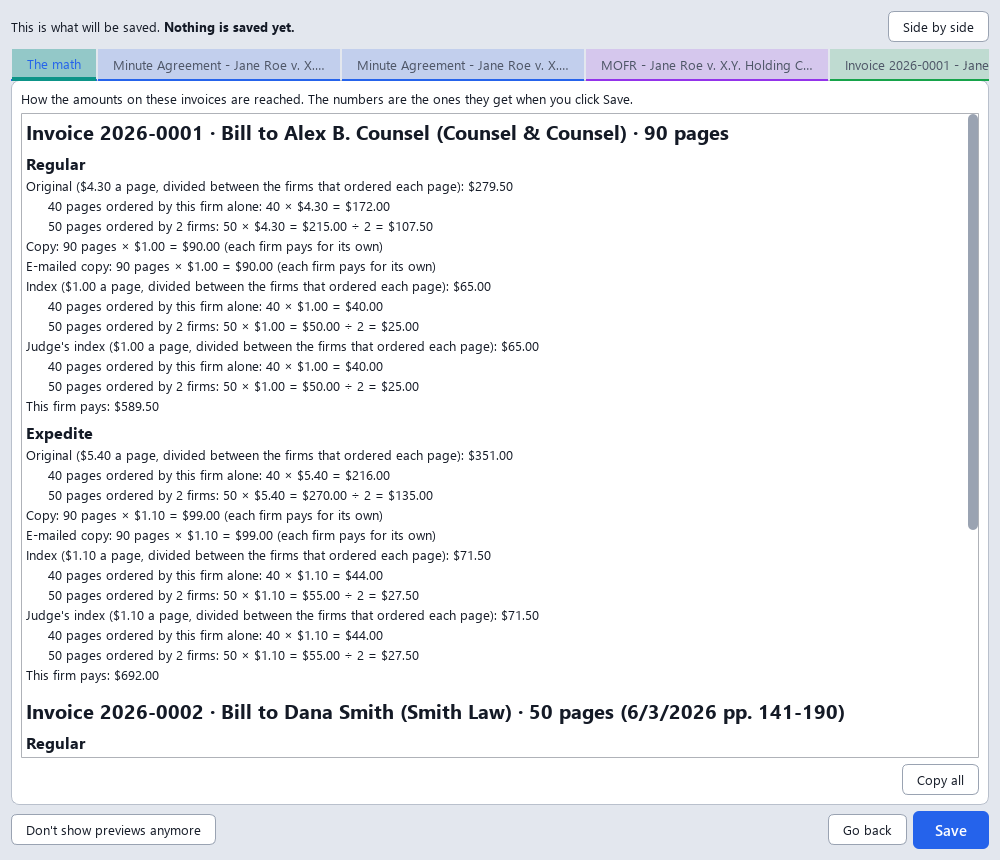
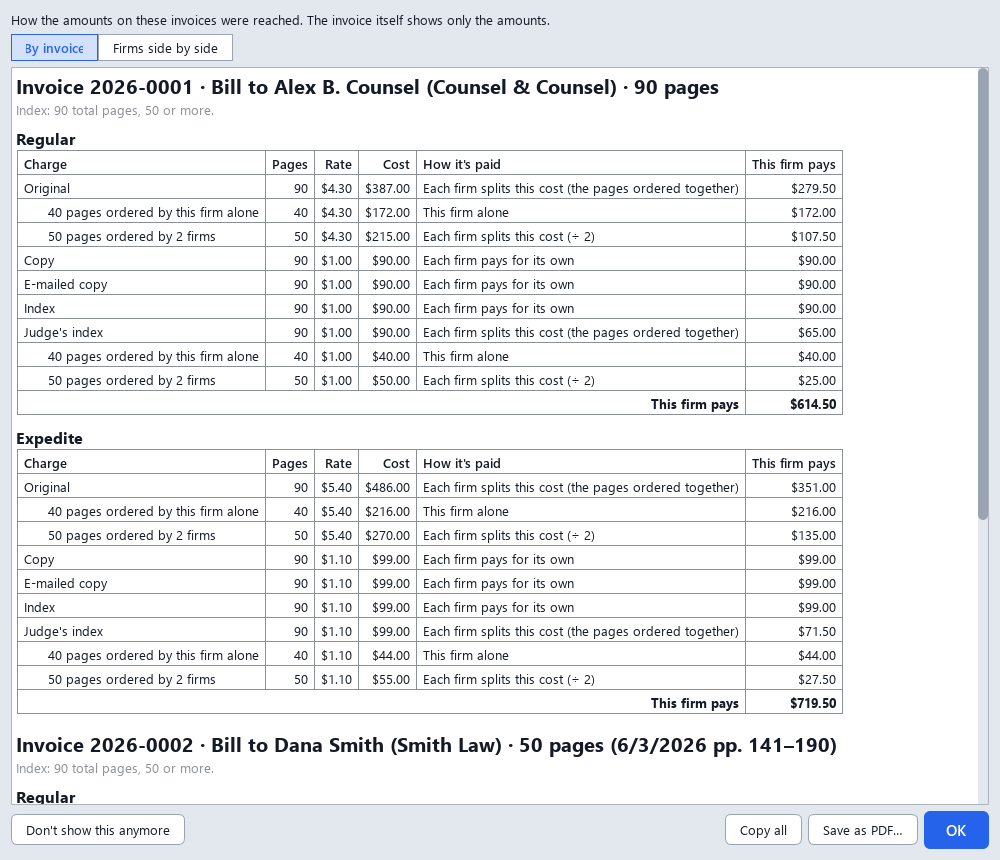
Website for 2.5.0: the index on the whole transcript, Peripherals..., the math in tables, the counts in the Outputs box
New pictures (made-up data): the main window with the renamed card and the counts, the batch, and the math
in tables. The text: the speeds in the Invoice panel, Minute agreement form details, each firm's own index
and the judge's split, Peripherals... for this job only, Copy all as text.

Claude-Session: https://claude.ai/code/session_01M8DtR5FeDUj772wgLniEsn

Changed region(s): [[0.0, 0.0, 0.992, 0.9977], [0.651, 0.1814, 0.837, 0.4837], [0.093, 0.9372, 0.217, 0.9977]]

diff --git a/docs/index.html b/docs/index.html
@@ -64,7 +64,7 @@
 </header>
 
 <div class="wrap">
-  <img class="shot" src="app.png" alt="The app with a case filled in from a pasted e-mail: the case details, the invoice's speeds and the minute agreement's one speed under Order, and the Outputs box">
+  <img class="shot" src="app.png" alt="The app with a case filled in from a pasted e-mail: the case details, the Minute agreement form details card, and the Outputs box, each output saying how many files Generate will make">
 </div>
 
 <section>
@@ -80,8 +80,8 @@
     <ol class="steps">
       <li><b>Drop it in</b>A PDF (transcript, invoice), a photo, or paste the e-mail text or a screenshot with Ctrl+V.</li>
       <li><b>Check the details</b>Every field shows where it came from. Guesses are highlighted, and a list offers other candidates. No case name in the document? An earlier job with the same index number in your records suggests one, highlighted for you to check.</li>
-      <li><b>Tick who ordered, and the speeds</b>Tick the firms who ordered: a firm is one row, naming all its attorneys on the title page, and gets one invoice and one agreement (No. of copies follows). Two rows that might be one firm, "Smith Law" and "Smith Law Group"? You're asked, <b>Same firm</b> or <b>Not the same</b>, and the app remembers your answer (untick <b>Remember</b> to answer for now only; Settings &rarr; Invoice lists your answers, so you can forget one). Under Order, tick the speeds you offer, once: the invoice lists them all, each at its own price, and the agreement form names one speed at one rate, Expedited when you offer it, unless you pick another. An e-mail asking for another speed? It's pointed out, and Generate asks you which. <b>Who pays what</b>, under the attorneys, shows each firm's invoice in short as you tick. Rates and the estimated delivery date follow your rate sheet.</li>
-      <li><b>Generate</b>Tick what to make in the Outputs box: minute agreement, invoice, MOFR, run sheet, each with its own options. You see every file, and the math, before anything is saved; then the PDFs are saved, one per attorney you tick, and the run sheet gets the day's takes. Ctrl+Enter does it from the keyboard.</li>
+      <li><b>Tick who ordered, and the speeds</b>Tick the firms who ordered: a firm is one row, naming all its attorneys on the title page, and gets one invoice and one agreement (No. of copies follows). Two rows that might be one firm, "Smith Law" and "Smith Law Group"? You're asked, <b>Same firm</b> or <b>Not the same</b>, and the app remembers your answer (untick <b>Remember</b> to answer for now only; Settings &rarr; Invoice lists your answers, so you can forget one). In the Invoice panel, tick the speeds you offer, once: the invoice lists them all, each at its own price, and the agreement form names one speed at one rate, Expedited when you offer it, unless you pick another under <b>Minute agreement form details</b>. An e-mail asking for another speed? It's pointed out, and Generate asks you which. <b>Who pays what</b>, under the attorneys, shows each firm's invoice in short as you tick. Rates and the estimated delivery date follow your rate sheet.</li>
+      <li><b>Generate</b>Tick what to make in the Outputs box: minute agreement, invoice, MOFR, run sheet, each with its own options, and each saying how many files it will make ("Will generate 2 minute agreement forms") as you tick attorneys. You see every file, and the math, before anything is saved; then the PDFs are saved, one per attorney you tick, and the run sheet gets the day's takes. Ctrl+Enter does it from the keyboard.</li>
     </ol>
   </div>
 </section>
@@ -92,7 +92,7 @@
       <h2>A hundred orders? Drop the whole folder.</h2>
       <p>Batch mode reads any number of documents and sorts them into one job per case and date. A transcript and its invoice make one form, not two. Two days of the same case make two jobs, but <b>Generate all</b> gives each firm <b>one invoice</b> and one minute agreement for all the days it ordered, and the trial one MOFR (Settings &rarr; Options switches back to forms for each day). Tick the jobs you want and press <b>Generate all</b>: the preview shows every file and the math first, and nothing is saved until you say so. A ⚠ next to a job means something to check; hover over it to see what.</p>
     </div>
-    <img class="shot" src="batch.png" alt="Batch mode: five jobs on the left, a trial day two reporters wrote, its speeds offered and page count (Transcript pages 101 to 130, excluding the 4 word-index pages), your 18 of its 30 pages billed, and the Outputs box with Run sheet ticked">
+    <img class="shot" src="batch.png" alt="Batch mode: five jobs on the left, a trial day two reporters wrote, and the Outputs box: what Generate and Generate all will make, the speeds offered, You wrote 18 of 30 total pages, the index and why, and Run sheet ticked">
   </div>
 </section>
 
@@ -111,7 +111,7 @@
     <img class="shot" src="invoice.png" alt="One invoice for two days of a case, listing the Regular and Expedite amounts">
     <div>
       <h2>Invoices from your transcripts</h2>
-      <p>Drop a transcript PDF and tick <b>Invoice</b>. The page count leaves out the word index printed after the transcript, and the line under it says so: "Transcript pages 378&ndash;460 &middot; excludes the 13 word-index pages after them". It is counted four ways (up to the index, by the line numbers, by the printed page numbers, and the index found from the end); if they disagree, or the index would be more than a quarter of the PDF, the field turns amber and tells you why. The page count and your rate sheet price the original, each party's copy and e-mailed copy, and an index for long transcripts, split between the ordering parties. The speeds you tick under Order (Regular and Expedited to start with) are the ones the invoice offers, each with its turnaround and amount, and with how to pay you. The agreement form names one of them, at one rate per page: Expedited when you offer it, otherwise the slowest. Settings &rarr; Invoice changes that rule, and the <b>Speed</b> dropdown under Order changes it for one job. No transcript, just a caption page? Type the pages in <b>Est. number of pages</b> and the invoice bills them. Want the page count, the pages of each day and the charges spelled out for this job? Tick <b>Show granular detail</b>, and choose what it shows. <b>Extras…</b> drops the e-mailed copy or adds an index for one job. The notes on the invoice are yours to write, too: place them where you like and have them show only when they apply ("delivered once every party has paid" only when several parties ordered).</p>
+      <p>Drop a transcript PDF and tick <b>Invoice</b>. The page count leaves out the word index printed after the transcript, and the line under it says so: "Transcript pages 378&ndash;460 &middot; excludes the 13 word-index pages after them". It is counted four ways (up to the index, by the line numbers, by the printed page numbers, and the index found from the end); if they disagree, or the index would be more than a quarter of the PDF, the field turns amber and tells you why. The page count and your rate sheet price the original, each party's copy and e-mailed copy, and for long transcripts an index for each party, plus one for the judge that the parties split. Whether there is an index is decided on the whole transcript, every reporter's pages (50 pages or more to start with): your 45 pages of an 83-page transcript get one, charged on your 45. The speeds you tick in the Invoice panel (Regular and Expedited to start with) are the ones the invoice offers, each with its turnaround and amount, and with how to pay you. The agreement form names one of them, at one rate per page: Expedited when you offer it, otherwise the slowest. Settings &rarr; Invoice changes that rule, and the <b>Speed</b> dropdown under <b>Minute agreement form details</b> changes it for one job. No transcript, just a caption page? Type the pages in <b>Est. number of pages</b> and the invoice bills them. Want the page count, the pages of each day and the charges spelled out for this job? Tick <b>Show granular detail</b>, and choose what it shows. <b>Peripherals…</b> drops the e-mailed copy, or says yes or no to the index, for this job only, and the panel says why there is an index or not: "83 total pages, 50 or more". The notes on the invoice are yours to write, too: place them where you like and have them show only when they apply ("delivered once every party has paid" only when several parties ordered).</p>
       <p>Shared the trial with another reporter? The invoice bills only <b>your</b> pages, the ones with your initials at the foot: 65 of a 150-page transcript, say. <b>Whose pages…</b> lets you tick <b>My pages</b>, another reporter's pages, or <b>The whole transcript</b>, and the app asks when it can't tell. Each other reporter you tick gets invoices for their own pages, in their name, with their address and payment details (Settings &rarr; Run sheet &rarr; Invoices for, or <b>Details…</b>), numbered apart from yours (DS-2026-0001), with file names that say whose they are. Sample shown uses made-up names.</p>
     </div>
   </div>
@@ -121,7 +121,7 @@
   <div class="wrap two">
     <div>
       <h2>Excerpts: the whole case on one table</h2>
-      <p>One firm ordered the whole trial, another part of day 1, a third part of that and a stretch of day 2? <b>Excerpts…</b> (next to Parties) lists every day of the case on that invoice in one table. Each row is a run of pages, typed in the transcript's own page numbers (141-170), and the rows around it make room. Tick the firms that ordered each run. <b>Split run</b> cuts a run in two, and <b>Remove run</b> (or the Delete key, or a right-click) gives its pages to the run next to it; <b>Remove this day's excerpts</b> and <b>Remove all excerpts</b> go back to whole days. Each run shows its date and weekday, and each set of firms ordering together has its own colour. As you type, it shows what each run costs each firm at every speed you offer (<b>Prices for:</b> hides a speed), what each group of firms ordering together pays, and each firm's invoice. Pages ordered together share the original and the index, and every firm pays for its own copy. A run nobody ticks is billed to nobody. The window stays open beside the app and follows what you change there. Sample shown uses made-up names.</p>
+      <p>One firm ordered the whole trial, another part of day 1, a third part of that and a stretch of day 2? <b>Excerpts…</b> (next to Parties) lists every day of the case on that invoice in one table. Each row is a run of pages, typed in the transcript's own page numbers (141-170), and the rows around it make room. Tick the firms that ordered each run. <b>Split run</b> cuts a run in two, and <b>Remove run</b> (or the Delete key, or a right-click) gives its pages to the run next to it; <b>Remove this day's excerpts</b> and <b>Remove all excerpts</b> go back to whole days. Each run shows its date and weekday, and each set of firms ordering together has its own colour. As you type, it shows what each run costs each firm at every speed you offer (<b>Prices for:</b> hides a speed), what each group of firms ordering together pays, and each firm's invoice. Pages ordered together split the original and the judge's index, and every firm pays for its own copy, e-mailed copy and index. A run nobody ticks is billed to nobody. The window stays open beside the app and follows what you change there. Sample shown uses made-up names.</p>
     </div>
     <img class="shot" src="excerpts.png" alt="The Excerpts table: two days of a case with their dates and weekdays, a row per run of pages coloured by the firms ordering it, a box per firm, what each firm pays at Regular and Expedite, and the Remove buttons">
   </div>
@@ -151,9 +151,9 @@
   <div class="wrap two">
     <div>
       <h2>Asked how you got that number?</h2>
-      <p>Your invoices can stay clean, with just the amounts, and the math is still at hand. <b>The math</b>, the preview's first tab, spells out each amount line by line, stretch by stretch of pages: "50 pages ordered by 2 firms: 50 &times; $4.30 = $215.00 &divide; 2 = $107.50", the copies, the index, then what <b>this firm pays</b>. When several firms share the work, <b>All the firms together</b> checks that what they pay covers it. <b>Copy all</b> puts it on the clipboard for a reply. With previews off, it comes in a small window after saving: <b>OK</b>, <b>Copy all</b>, <b>Save as PDF…</b> for the attorney who asked, or <b>Don't show this anymore</b> (<i>Show the math of each invoice</i> in Settings &rarr; Options brings it back). Prefer to have it on file? Settings &rarr; Invoice can also save a <b>detailed copy</b> of every invoice, the same invoice number with the full breakdown, ready for when someone asks. Sample shown uses made-up names.</p>
+      <p>Your invoices can stay clean, with just the amounts, and the math is still at hand. <b>The math</b>, the preview's first tab, lays out each amount in tables: <b>By invoice</b>, a row for each charge with its pages, rate and cost, whether <i>each firm splits this cost</i> or <i>pays for its own</i>, and what this firm pays, stretch by stretch of pages ("50 pages ordered by 2 firms &hellip; &divide; 2"); or <b>Firms side by side</b>, a column for each firm. It remembers the one you chose, and the Invoice panel has its own link to it before you generate. When several firms share the work, <b>All the firms together</b> checks that what they pay covers it. <b>Copy all</b> copies it as text, a line for each charge, for a reply. With previews off, it comes in a small window after saving: <b>OK</b>, <b>Copy all</b>, <b>Save as PDF…</b> (the tables) for the attorney who asked, or <b>Don't show this anymore</b> (<i>Show the math of each invoice</i> in Settings &rarr; Options brings it back). Prefer to have it on file? Settings &rarr; Invoice can also save a <b>detailed copy</b> of every invoice, the same invoice number with the full breakdown, ready for when someone asks. Sample shown uses made-up names.</p>
     </div>
-    <img class="shot" src="math.png" alt="The math, the preview's first tab: the original split stretch by stretch (40 pages ordered by this firm alone, 50 pages ordered by 2 firms), copies, index, and what this firm pays">
+    <img class="shot" src="math.png" alt="The math in tables, By invoice: the original and the judge's index split stretch by stretch (40 pages ordered by this firm alone, 50 pages ordered by 2 firms), the copy, e-mailed copy and index each firm pays for its own, and what this firm pays at each speed">
   </div>
 </section>
 
